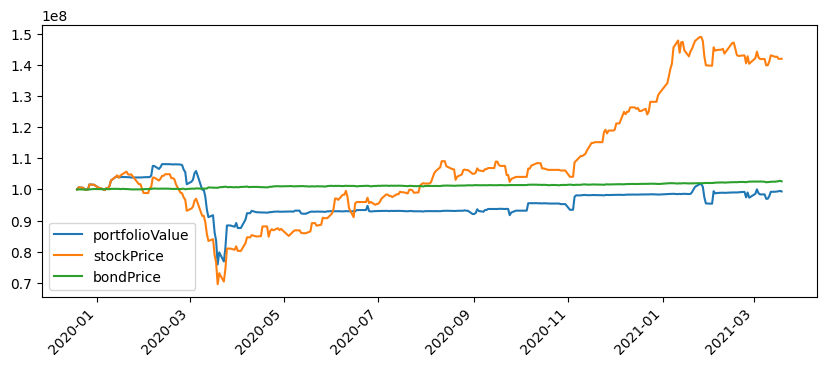
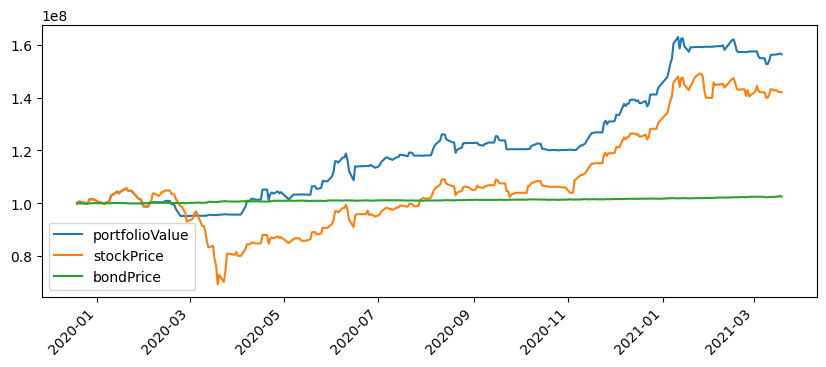
debuging 2021.03.25. 11:40

diff --git a/strategies/absMomentum_v1.py b/strategies/absMomentum_v1.py
@@ -81,8 +81,8 @@ class absMomentumStrategy:
         self.bond = 0
         self.cash = self.portfolioValue - self.nStock*_initStockPrice
         
-        self.stockReturns = np.array([])
-        self.bondReturns  = np.array([])
+        self.stockReturns = np.array([1.])
+        self.bondReturns  = np.array([1.])
         self.datesFromLastRebal = datetime.timedelta(days=0)
         self.history.loc[0] = [self.initDate, self.initVal, self.stock, self.bond\
                               ,self.nStock, self.nBond, _initStockPrice, _initBondPrice\
@@ -162,9 +162,9 @@ class absMomentumStrategy:
                     _indxStock = np.where(_stockDates == self.date)[0]
                     _indxBond  = np.where(_bondDates == self.date)[0]
             self.stockReturns = np.append(self.stockReturns\
-                                            ,self.stockData.iloc[_indxStock[0]]['종가']/self.stockData.iloc[_indxStock[0]-1]['종가']-1)
+                                            ,self.stockData.iloc[_indxStock[0]]['종가']/self.stockData.iloc[_indxStock[0]+1]['종가'])
             self.bondReturns = np.append(self.bondReturns\
-                                            ,self.bondData.iloc[_indxBond[0]]['종가']/self.bondData.iloc[_indxBond[0]-1]['종가']-1)
+                                            ,self.bondData.iloc[_indxBond[0]]['종가']/self.bondData.iloc[_indxBond[0]+1]['종가'])
             
             self.stock = self.nStock * self.stockData.iloc[_indxStock[0]]['종가']
             self.bond  = self.nBond * self.bondData.iloc[_indxBond[0]]['종가']
@@ -200,16 +200,16 @@ class absMomentumStrategy:
         self.datesFromLastRebal = datetime.timedelta(days=0)
         _rebalScopeLen = int(np.ceil(self.rebalPeriod/datetime.timedelta(days=1)))
         if self.nStock == 0 \
-            and np.prod(1+self.stockReturns[len(self.stockReturns)-_rebalScopeLen:len(self.stockReturns)])\
-                    > np.prod(1+self.bondReturns[len(self.bondReturns)-_rebalScopeLen:len(self.bondReturns)]):
+            and np.prod(self.stockReturns[len(self.stockReturns)-_rebalScopeLen:len(self.stockReturns)])\
+                    > np.prod(self.bondReturns[len(self.bondReturns)-_rebalScopeLen:len(self.bondReturns)]):
             if self.allowFrac:
                 self.nStock = self.portfolioValue/_stockPriceToday
             else:
                 self.nStock = np.floor(self.portfolioValue/_stockPriceToday)
                 self.nBond  = 0
         if self.nBond == 0 \
-            and np.prod(1+self.stockReturns[len(self.stockReturns)-_rebalScopeLen:len(self.stockReturns)])\
-                    < np.prod(1+self.bondReturns[len(self.bondReturns)-_rebalScopeLen:len(self.bondReturns)]):
+            and np.prod(self.stockReturns[len(self.stockReturns)-_rebalScopeLen:len(self.stockReturns)])\
+                    < np.prod(self.bondReturns[len(self.bondReturns)-_rebalScopeLen:len(self.bondReturns)]):
             if self.allowFrac:
                 self.nBond = self.portfolioValue/_bondPriceToday
             else:
